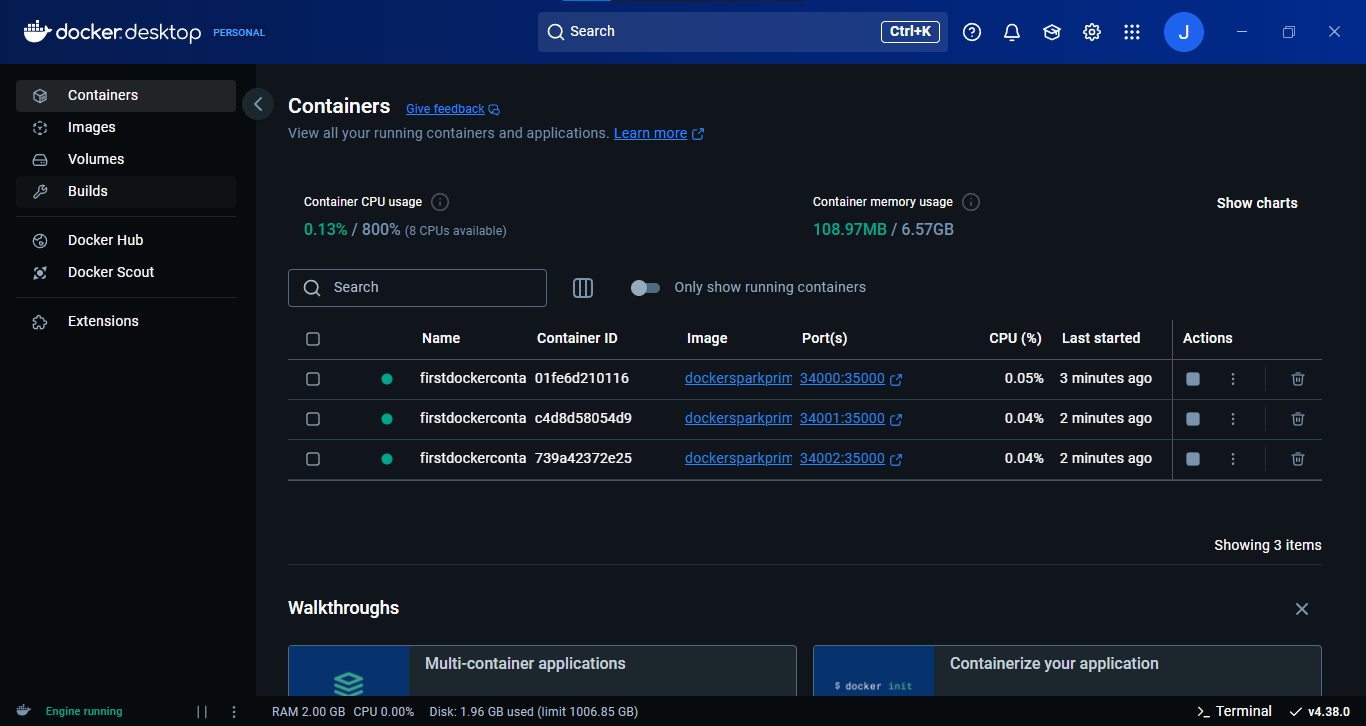
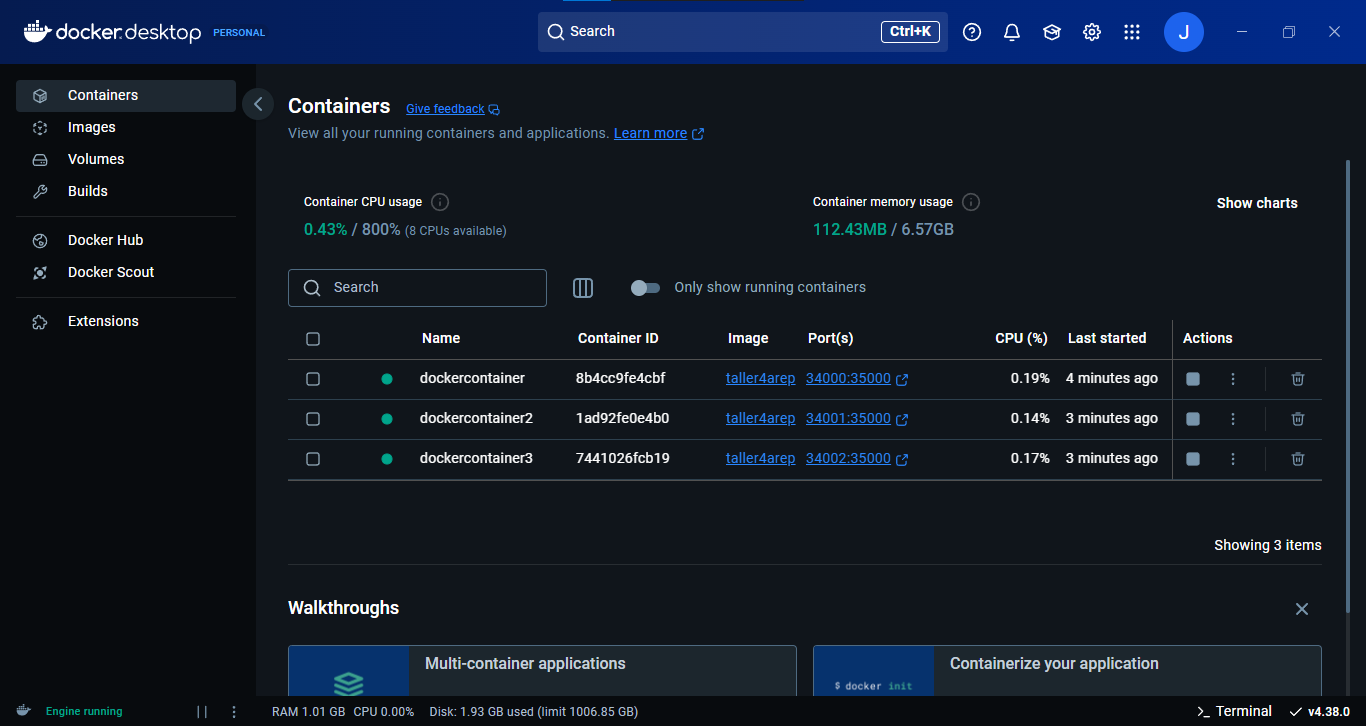
Docker not loading statics

diff --git a/src/main/java/co/edu/eci/http/PokemonServer.java b/src/main/java/co/edu/eci/http/PokemonServer.java
@@ -194,7 +194,15 @@ public class PokemonServer {
 
     private static void serveStaticFile(String path, OutputStream out) throws IOException {
         if (path.equals("/")) path = "/index.html";
-        File file = new File(staticFilesDir + path);
+
+        String dockerEnv = System.getenv("DOCKER_ENV");
+        File file;
+        if (dockerEnv != null && dockerEnv.equals("true")) {
+            file = new File("/usrapp/bin/resources/static" + path);
+        } else {
+            file = new File("src/main/resources/static" + path);
+        }
+
         if (file.exists() && !file.isDirectory()) {
             byte[] fileBytes = Files.readAllBytes(file.toPath());
             String contentType = getMimeType(path);

diff --git a/README.md b/README.md
@@ -37,55 +37,63 @@ git --version
 
 1. Download the repository from GitHub in a .zip or clone it to your local machine using Git.
 
-```
-git clone https://github.com/jcontreras2693/AREP-Lab4.git
-```
-
+    ```
+    git clone https://github.com/jcontreras2693/AREP-Lab4.git
+    ```
+   
 2. Navigate to the project directory.
 
-```
-cd AREP-Lab4
-```
-
+    ```
+    cd AREP-Lab4
+    ```
+   
 3. Build the project by running the following command:
 
-```
-mvn clean compile
-```
+    ```
+    mvn clean compile
+    ```
 
 4. Execute the project with the following command:
 
-```
-mvn exec:java -Dexec.mainClass="co.edu.eci.WebApplication"
-```
-5. The installation process will have been successful if you see a message like this in your command console. (If this steps didn't work, execute the project directly from IntelliJ)
+    ```
+    mvn exec:java -Dexec.mainClass="co.edu.eci.WebApplication"
+    ```
 
-![](src/main/resources/images/succes.png)
+5. From IntellIj terminal you can also use this one:
 
-6. Finally, access the address [localhost:35000](http://localhost:35000/) from a web browser to interact with the web application.
+    ```
+    java -cp "target/classes;target/dependency/*" co.edu.eci.WebApplication
+    ```
 
-- Home page example.
+6. The installation process will have been successful if you see a message like this in your command console. (If this steps didn't work, execute the project directly from IntelliJ)
 
-    ![](src/main/resources/images/home-page.png)
+    ![](src/main/resources/images/succes.png)
 
-- Home page Post Request example.
+7. Finally, access the address [localhost:35000](http://localhost:35000/) from a web browser to interact with the web application.
 
-    ![](src/main/resources/images/employed-page.png)
+   - Home page example.
 
-- Get Request on /pi.
+       ![](src/main/resources/images/home-page.png)
 
-  ![](src/main/resources/images/pi-endpoint.png)
+   - Home page Post Request example.
 
-- Get Request on /api/pokemon.
+       ![](src/main/resources/images/employed-page.png)
 
-    ![](src/main/resources/images/api-pokemon.png)
+   - Get Request on /pi.
 
-- Post Request on /api/pokemon.
+     ![](src/main/resources/images/pi-endpoint.png)
 
-  ![](src/main/resources/images/post-pokemon.png)
+   - Get Request on /api/pokemon.
+
+       ![](src/main/resources/images/api-pokemon.png)
+
+   - Post Request on /api/pokemon.
+
+     ![](src/main/resources/images/post-pokemon.png)
 
 ## Concurency
-- The servers uses ThreadPools to manage and control the concurrency of the server. PokemonTeam array was replaced by a thread save data structures.
+- The servers uses ThreadPools to manage and control the concurrency of the server and PokemonTeam array was replaced by a thread save data structures.
+
   ```
   public class PokemonServer {
     ...
@@ -101,6 +109,7 @@ mvn exec:java -Dexec.mainClass="co.edu.eci.WebApplication"
   ```
   
 - Graceful shutdown.
+
   ```
   public static void stop() {
     running = false;
@@ -117,15 +126,25 @@ mvn exec:java -Dexec.mainClass="co.edu.eci.WebApplication"
   ```
 
 ## Application Running on Docker
+
+- Containers creation
+
+  ![](src/main/resources/images/container-creation.png)
+
 - Containers running
+
   ![](src/main/resources/images/docker1.png)
+
   ![](src/main/resources/images/docker2.png)
+
   ![](src/main/resources/images/docker3.png)
 
 - Images
+
   ![](src/main/resources/images/docker-images.png)
 
 - Containers
+
   ![](src/main/resources/images/docker-containers.png)
 
 ## Running the Tests
